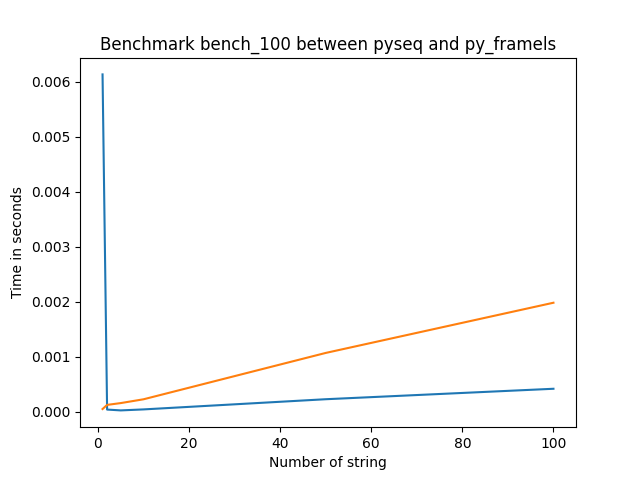
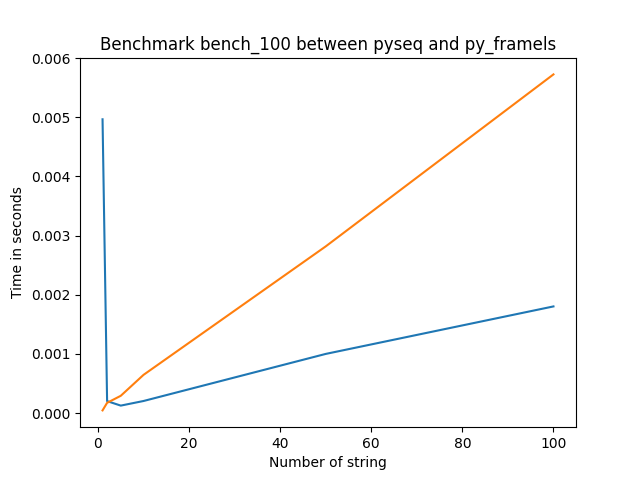
Update benchmark.py with new test cases

diff --git a/benchmark/benchmark.py b/benchmark/benchmark.py
@@ -5,22 +5,24 @@ import py_framels
 import matplotlib.pyplot as plt
 
 
-def benchmark_pyseq(x: list[int], name: str):
+def benchmark_pyseq(x: list[int]):
+    name = f"bench_{str(x[-1])}"
     y1 = list()
     y2 = list()
     for i in x:
         data_set: list[str] = list()
-        for i in range(0, i):
-            data_set.append(f"beauty_left.{str(i).zfill(6)}.exr")
-
-        now = datetime.now()
-        s = Sequence(data_set)
-        y2.append((datetime.now() - now).total_seconds())
-
+        for aov in ["Beauty", "Specular", "IndirectDiffuse", "SSS"]:
+            for i in range(0, i):
+                data_set.append(f"{aov}_left.{str(i).zfill(6)}.exr")
         now = datetime.now()
         py_framels.py_basic_listing(data_set)
         y1.append((datetime.now() - now).total_seconds())
 
+        now = datetime.now()
+        s = Sequence(data_set)
+        y2.append((datetime.now() - now).total_seconds())
+    print("py_framels", y1)
+    print("pyseq", y2)
     plt.plot(x, y1, label="py_framels")
     plt.plot(x, y2, label="pyseq")
     plt.xlabel("Number of string")
@@ -31,7 +33,8 @@ def benchmark_pyseq(x: list[int], name: str):
     plt.close()
 
 
-x = [1, 2, 5, 10, 50, 100]
-benchmark_pyseq(x, "bench_100")
-x = [100, 1000, 10000, 50000, 100000]
-benchmark_pyseq(x, "bench_100000")
+if __name__ == "__main__":
+    x = [1, 2, 5, 10, 50, 100]
+    benchmark_pyseq(x)
+    x = [100, 1000, 20000, 25000]
+    benchmark_pyseq(x)

diff --git a/README.md b/README.md
@@ -74,4 +74,11 @@ Return `['RenderPass_Beauty_1_*****.exr@0-96', 'RenderPass_DiffuseKey_1_*****.ex
 This is a benchmarks of the python binding py-framels vs pyseq at diffirent level of inputs
 
 ![benchmark](benchmark/bench_100.png)
-![benchmark](benchmark/bench_100000.png)
+
+py_framels [0.004966, 0.000201, 0.000125, 0.000203, 0.000999, 0.001802]
+pyseq [4.4e-05, 0.000172, 0.000291, 0.000645, 0.002817, 0.005725]
+
+![benchmark](benchmark/bench_25000.png)
+
+py_framels [0.002173, 0.015975, 0.359272, 0.420266]
+pyseq [0.005592, 0.060121, 2.632283, 3.918997]
